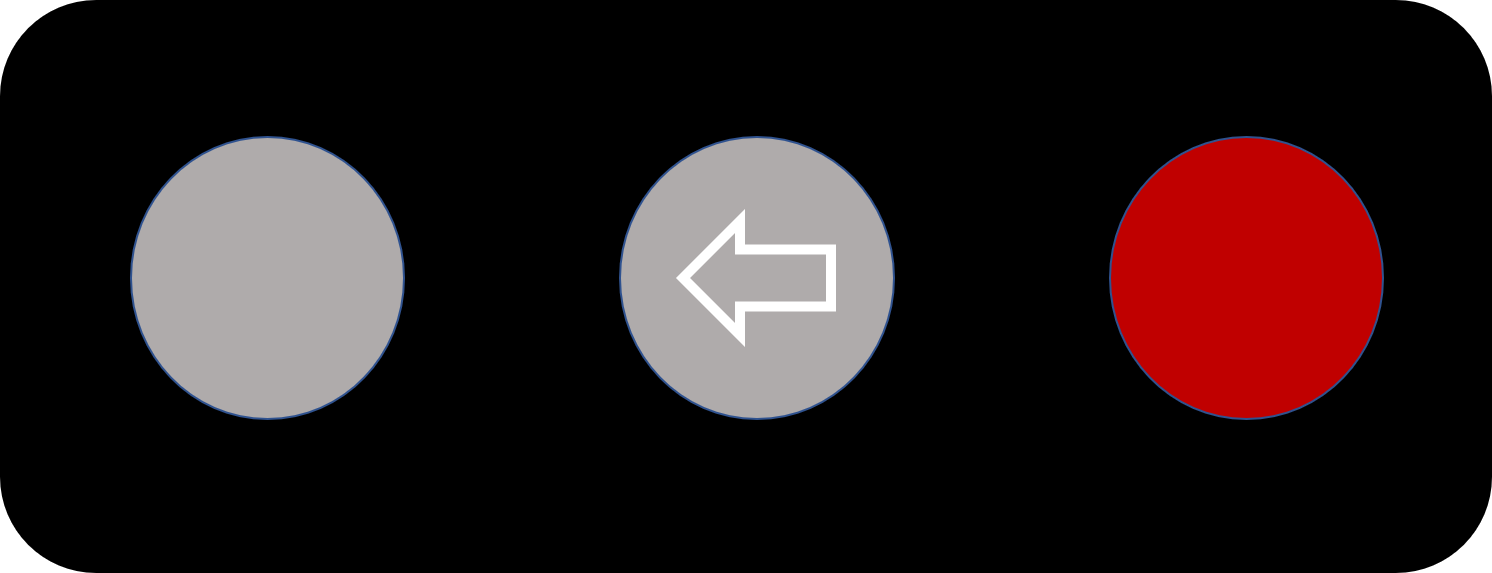
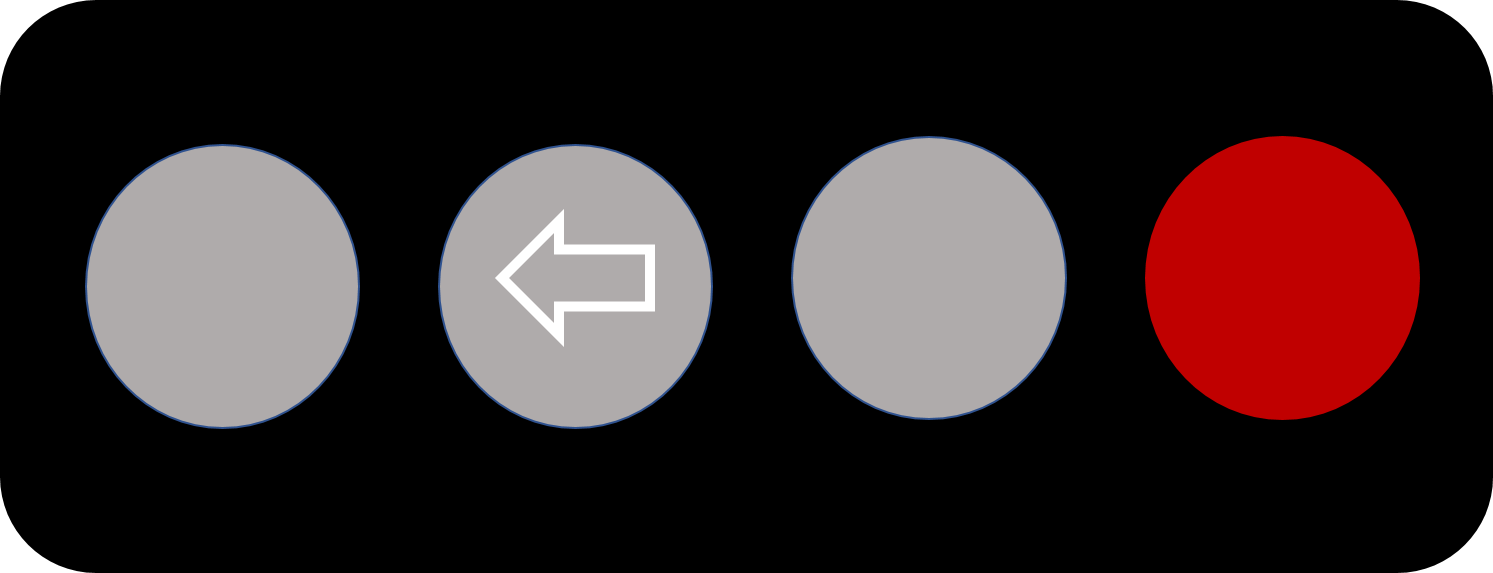
0522 노란불, 남은시간 표시

Changed region(s): [[0.0308, 0.2373, 0.9558, 0.7714]]

diff --git a/src/main/java/kr/ac/hansung/cse/controller/TrafficStatusController.java b/src/main/java/kr/ac/hansung/cse/controller/TrafficStatusController.java
@@ -82,12 +82,18 @@ public class TrafficStatusController {
 			map.put("light", light);
 			list.add(map);
 		}
-		
+
 		System.out.println(list.get(0).get("imgPath"));
 		// 사고상황 인지
 		byte[] stream = fileService.getCertKey(TEXT_DIR + "/global.txt");
-		if (stream != null && new String(stream).equals("1"))
-			sendMessage("한성대 사거리 접촉 사고 발생");
+		if (stream != null) {
+			String[] textDatas = new String(stream).split(" ");
+			if (textDatas[0].equals("1"))
+				sendMessage("한성대 사거리 접촉 사고 발생");
+			Map<String, String> map = new HashMap<>();
+			map.put("remaintime", textDatas[1]);
+			list.add(map);
+		}
 
 		result.put("items", list);
 
